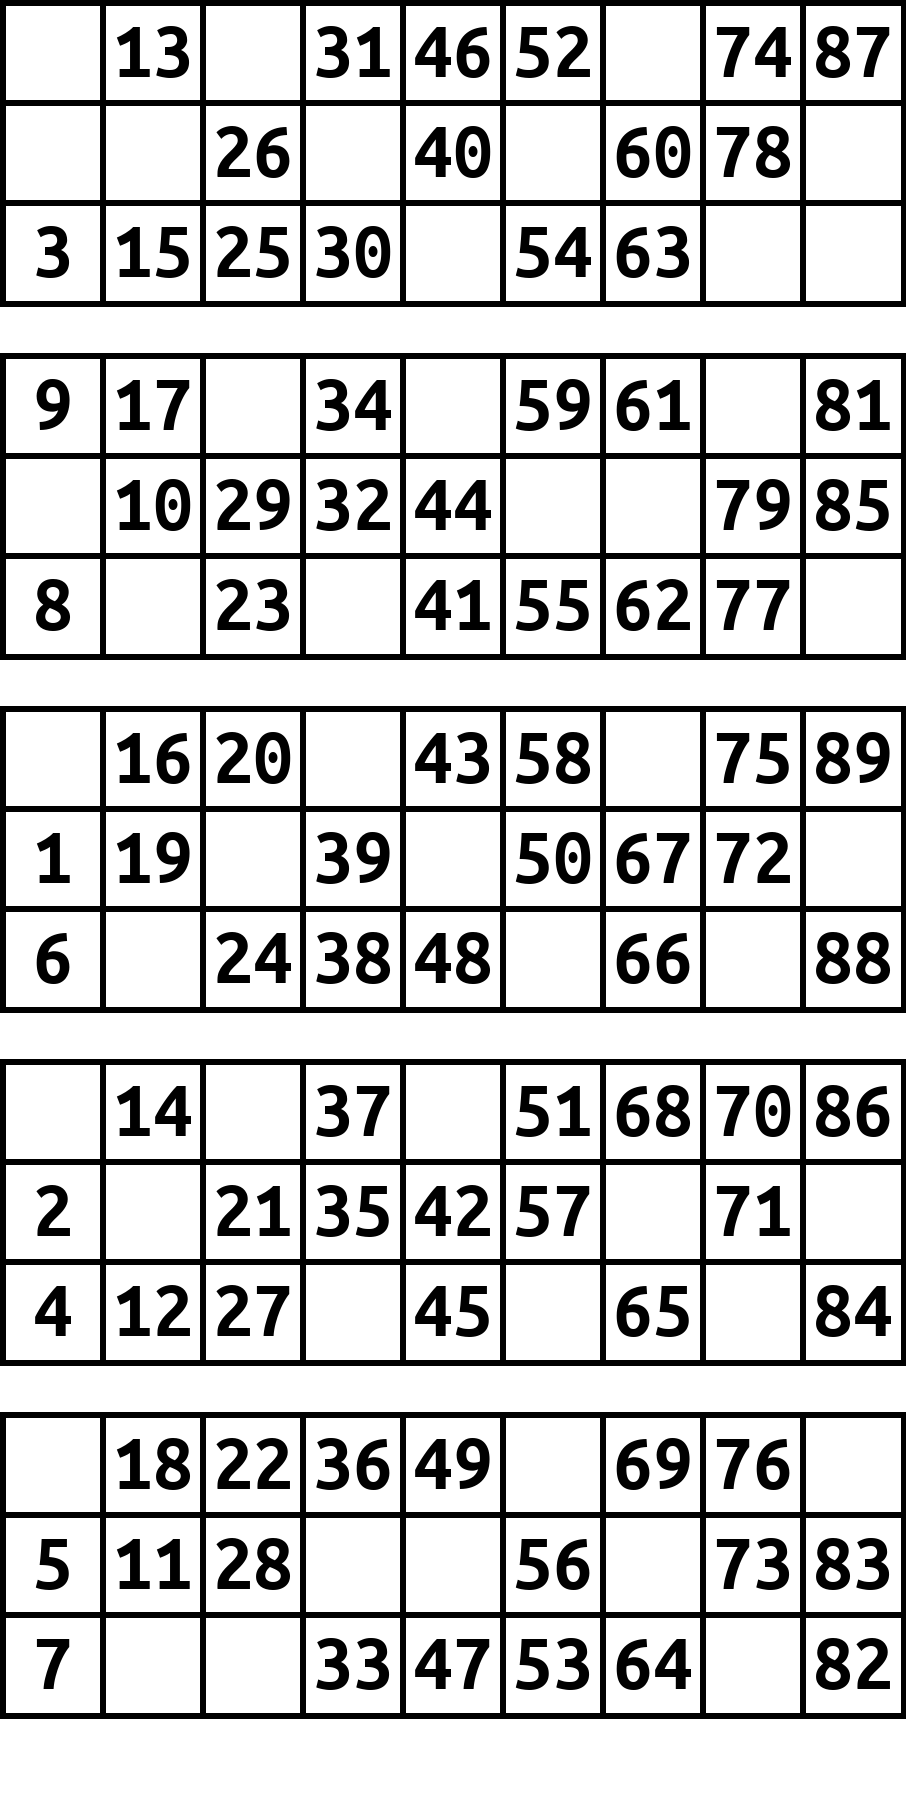
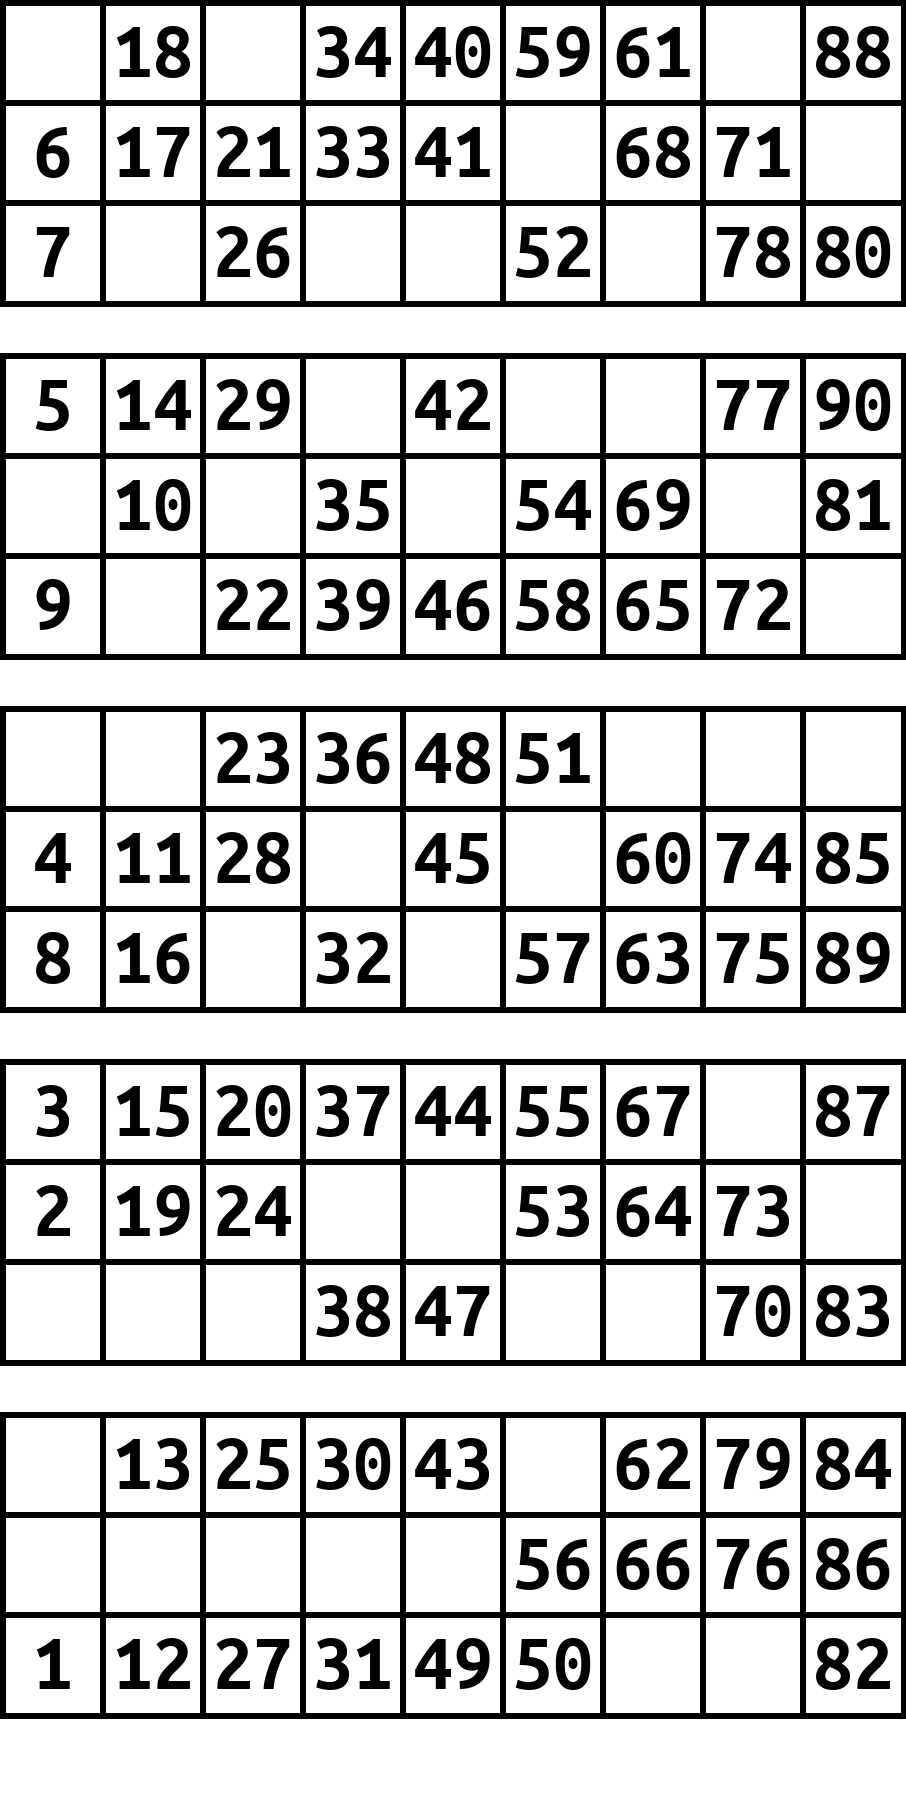
Bug Fixes
fixed the code after changing the approach. creates now a Bingo with the Right Numbers in each column.

But the spacing and sorting isnt implemented

diff --git a/Bingo.py b/Bingo.py
@@ -23,91 +23,40 @@ def ZettelGanz(mult:int, bingoNumber:int, rand:int = 1):
     
     numberList = []
     
-    noNumber = np.concatenate(
-        ([np.ones(5)], [np.ones(5)], [np.ones(5)]))
-    noNumber = np.concatenate(
-        (noNumber,[np.ones(5)+1], [np.ones(5)+1], [np.ones(5)+1]))
-    noNumber = np.concatenate(
-        (noNumber,[np.ones(5)-1], [np.ones(5)-1], [np.ones(5)-1])).T
-
-    for i in noNumber:
-        rng.shuffle(i)
-
-    noNumber = noNumber.T
-    
-    num3 = noNumber[0][0]
-    noNumber[0][0] = 3
-    
-    num4 = noNumber[-1][0]
-    noNumber[-1][0] = 4
-    
-    noNumber = noNumber.astype(int).tolist()
-    
-    # print(noNumber)
-    
-    # noNumber = []
-    
+    "List with numbers 1-9, 10-19, 20-29,...,80-90"
     for i in range(9):
-        if i==0:
-            numberList.append(np.arange(1,10).tolist())
-            # noNumber.append([3]+
-            #                 list(rng.integers(3, size =4)))
-        elif i==8:
-            numberList.append(np.arange(80,91).tolist())
-            # noNumber.append([4]+
-            #                 list(rng.integers(3, size =4)))
+        numberList.append(np.arange(i*10+(1 if i%10==0 else 0),
+                                    10+i*10+int(i/8)))
+
+    for i in range(9):
+        rng.shuffle(numberList[i])
+        if i == 0:
+            currNums = np.split(numberList[i][1:],4)
+            currNums.append(np.array(numberList[i][0]))
+        elif i == 8:
+            currNums = np.split(numberList[i][3:],4)
+            currNums.append(np.array(numberList[i][0:3]))
         else:
-            numberList.append(np.arange(i*10,10+i*10).tolist())
-            # noNumber.append(list(rng.integers(3, size =5)))
-            
-    # print(noNumber)
-    noNumber = np.array(noNumber).T
-    unique, counts = np.unique(noNumber[0], return_counts=True)
-    noNumber =noNumber.T.tolist()
-    # print(noNumber)
-        # numberList.append(np.arange(1+i*10,11+i*10).tolist())
-    for i in range(9):
-        for ii1 in range(5):
-            # noNum = noNumber[i].pop(rng.choice(len(noNumber[i])))
-            noNum = noNumber[i].pop(0)
-            if i==0:
-                print(noNum)
-            # noNum = noNumber[i].pop(0)
-            if noNum==3:
-                tracker2 = rng.choice(3)
-            tracker = 0
-            for ii in range(3):
-                img1.rectangle([(m*i,m*(ii+ii1*3)+ii1*hA),
-                                (m*i+m+rand, m*(ii+ii1*3)+m+rand+ii1*hA)], 
+            currNums = np.split(numberList[i],5)
+        print(f"i: {i}, currNums: {currNums}")
+        for ii in range(5):
+            # blank = rng.integers(3, size = 3-currNums[ii].size, replace=False)
+            blank = rng.choice(3, 3-currNums[ii].size, False)
+            counter = 0
+            for iii in range(3):
+                img1.rectangle([(m*i,m*(iii+ii*3)+ii*hA),
+                                (m*i+m+rand, m*(iii+ii*3)+m+rand+ii*hA)], 
                                fill = (255,255,255), 
                                outline = (0,0,0), width=rand)
-                
-                if noNum==3:
-                    if ii == num3:
-                    # if counts[ii]<3:
-                        number = numberList[i].pop(rng.choice(len(numberList[i])))
-                        img1.text((m*i+m/2+rand/2,m*(ii+ii1*3)+ii1*hA+m/2+size/3), 
-                                  str(number),
-                                  fill=(0,0,0), font=font, anchor = "ms")
-                        # counts[ii] += 1
-                        # break
-                    
-                    tracker += 1
-                
-                elif noNum==4:
-                    if ii == num4:
-                        number = numberList[i].pop(rng.choice(len(numberList[i])))
-                        img1.text((m*i+m/2+rand/2,m*(ii+ii1*3)+ii1*hA+m/2+size/3), 
-                                  str(number),
-                                  fill=(0,0,0), font=font, anchor = "ms")
-                    
-                elif ii!=noNum:
-                    # print(f"ii: {ii}\nnoNum: {noNum}\nii1: {ii1}\ni: {i}")
-                    number = numberList[i].pop(rng.choice(len(numberList[i])))
-                    img1.text((m*i+m/2+rand/2,m*(ii+ii1*3)+ii1*hA+m/2+size/3), 
+                if iii not in blank:
+                    # print(f"currNums: {currNums}\nblank: {blank}")
+                    if currNums[ii].size > 1:
+                        number = currNums[ii][counter]
+                    else: number = currNums[ii]
+                    img1.text((m*i+m/2+rand/2,m*(iii+ii*3)+ii*hA+m/2+size/3), 
                               str(number),
                               fill=(0,0,0), font=font, anchor = "ms")
-                    tracker += 1
+                    counter += 1
             
     img.save(f"BingoBlaetter/BingoGanz{bingoNumber}.png")
     # img.show()
@@ -117,57 +66,33 @@ for i in range(1):
 
 
 #%%
-# rng = np.random.default_rng()
+numberList = []
 
-# # numberList = []
+for i in range(9):
+    # if i == 0
+    if not i:
+        numberList.append(np.arange(1,10))
+    elif i==8:
+        numberList.append(np.arange(80,91))
+    else:
+        numberList.append(np.arange(i*10,10+i*10))
 
-# # test = np.concatenate((np.array([[3,1,2]]).T,np.array([[4,2,0]]).T), axis = 1)
+#%%
+rng = np.random.default_rng()
 
+numberList = []
 
-# noNumber = np.concatenate(([np.ones(5)], [np.ones(5)], [np.ones(5)]))
-# noNumber = np.concatenate((noNumber,[np.ones(5)+1], [np.ones(5)+1], [np.ones(5)+1]))
-# noNumber = np.concatenate((noNumber,[np.ones(5)-1], [np.ones(5)-1], [np.ones(5)-1])).T
-# # noNumber[0][0] = 3
+"List with numbers 1-9, 10-19, 20-29,...,80-90"
+for i in range(9):
+    numberList.append(np.arange(i*10+(1 if i%10==0 else 0),
+                                10+i*10+int(i/8)))
 
-# # noNumber[-1][0] = 4
-# for i in noNumber:
-#     rng.shuffle(i)
-
-# noNumber = noNumber.T
-
-
-
-# noNumber = noNumber.astype(int).tolist()
-
-# noNumber = np.array(noNumber).T
-# unique, counts = np.unique(noNumber[0], return_counts=True)
-# noNumber =noNumber.T.tolist()
-
+rng.shuffle(numberList[0])
+currNums = np.split(numberList[0][1:],4)
+currNums.append(np.array(numberList[0][0]))
 
 
-# noNumber = []
-
-# for i in range(9):
-#     if i==0:
-#         noNumber.append([3]+
-#                         list(rng.integers(3, size =4)))
-#     elif i==8:
-#         noNumber.append([4]+
-#                         list(rng.integers(3, size =4)))
-#     else:
-#         noNumber.append(list(rng.integers(3, size =5)))
-
-
-
-
-
-
-
-
-
-
-
-
+#%%
 
 
 
